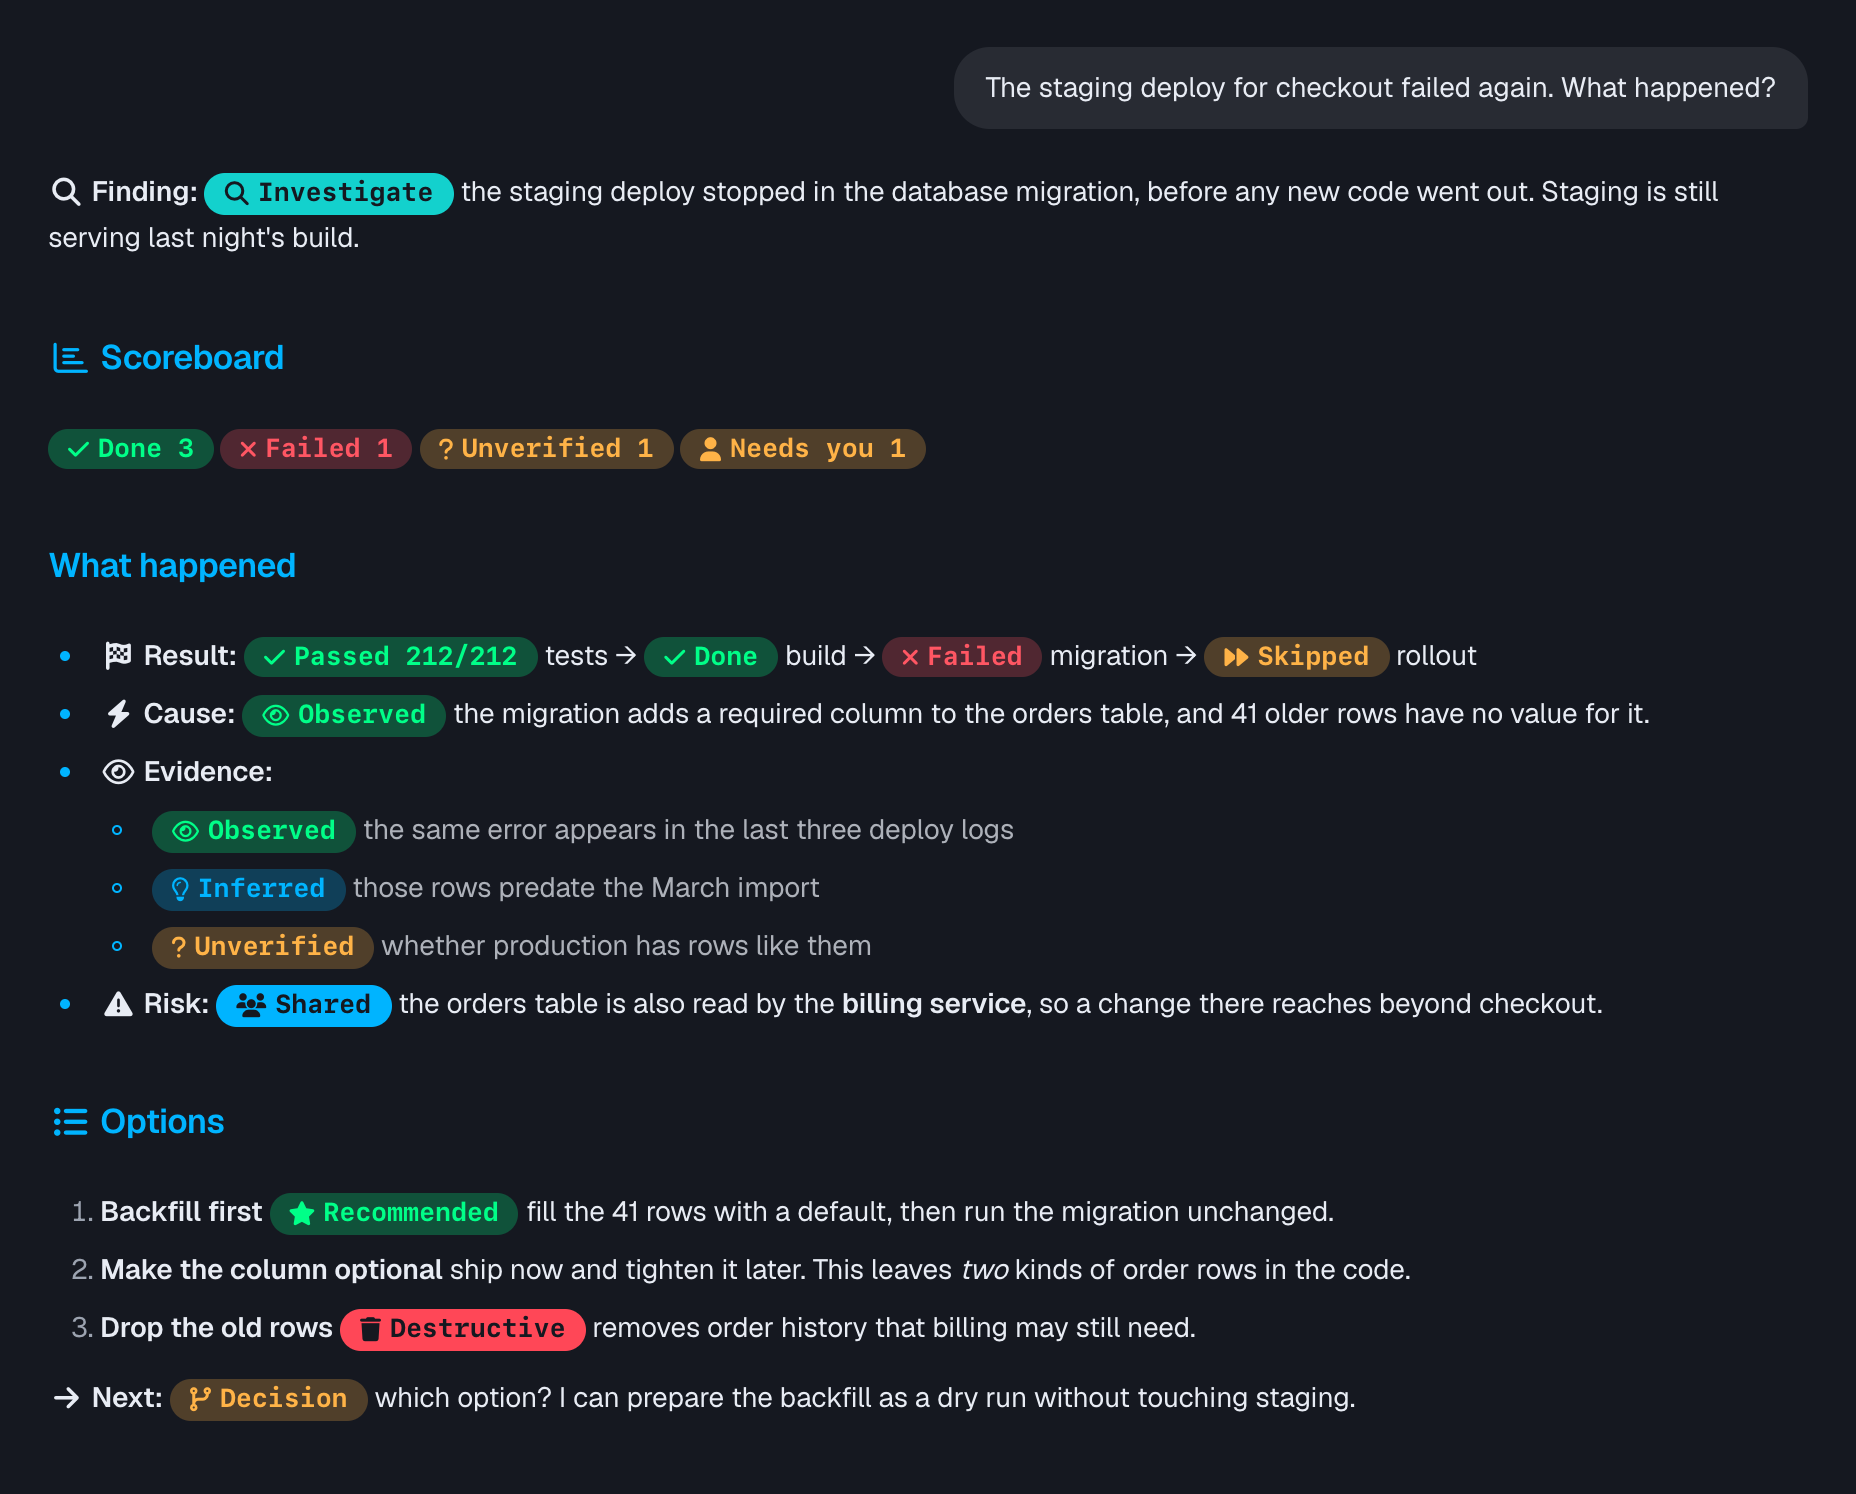
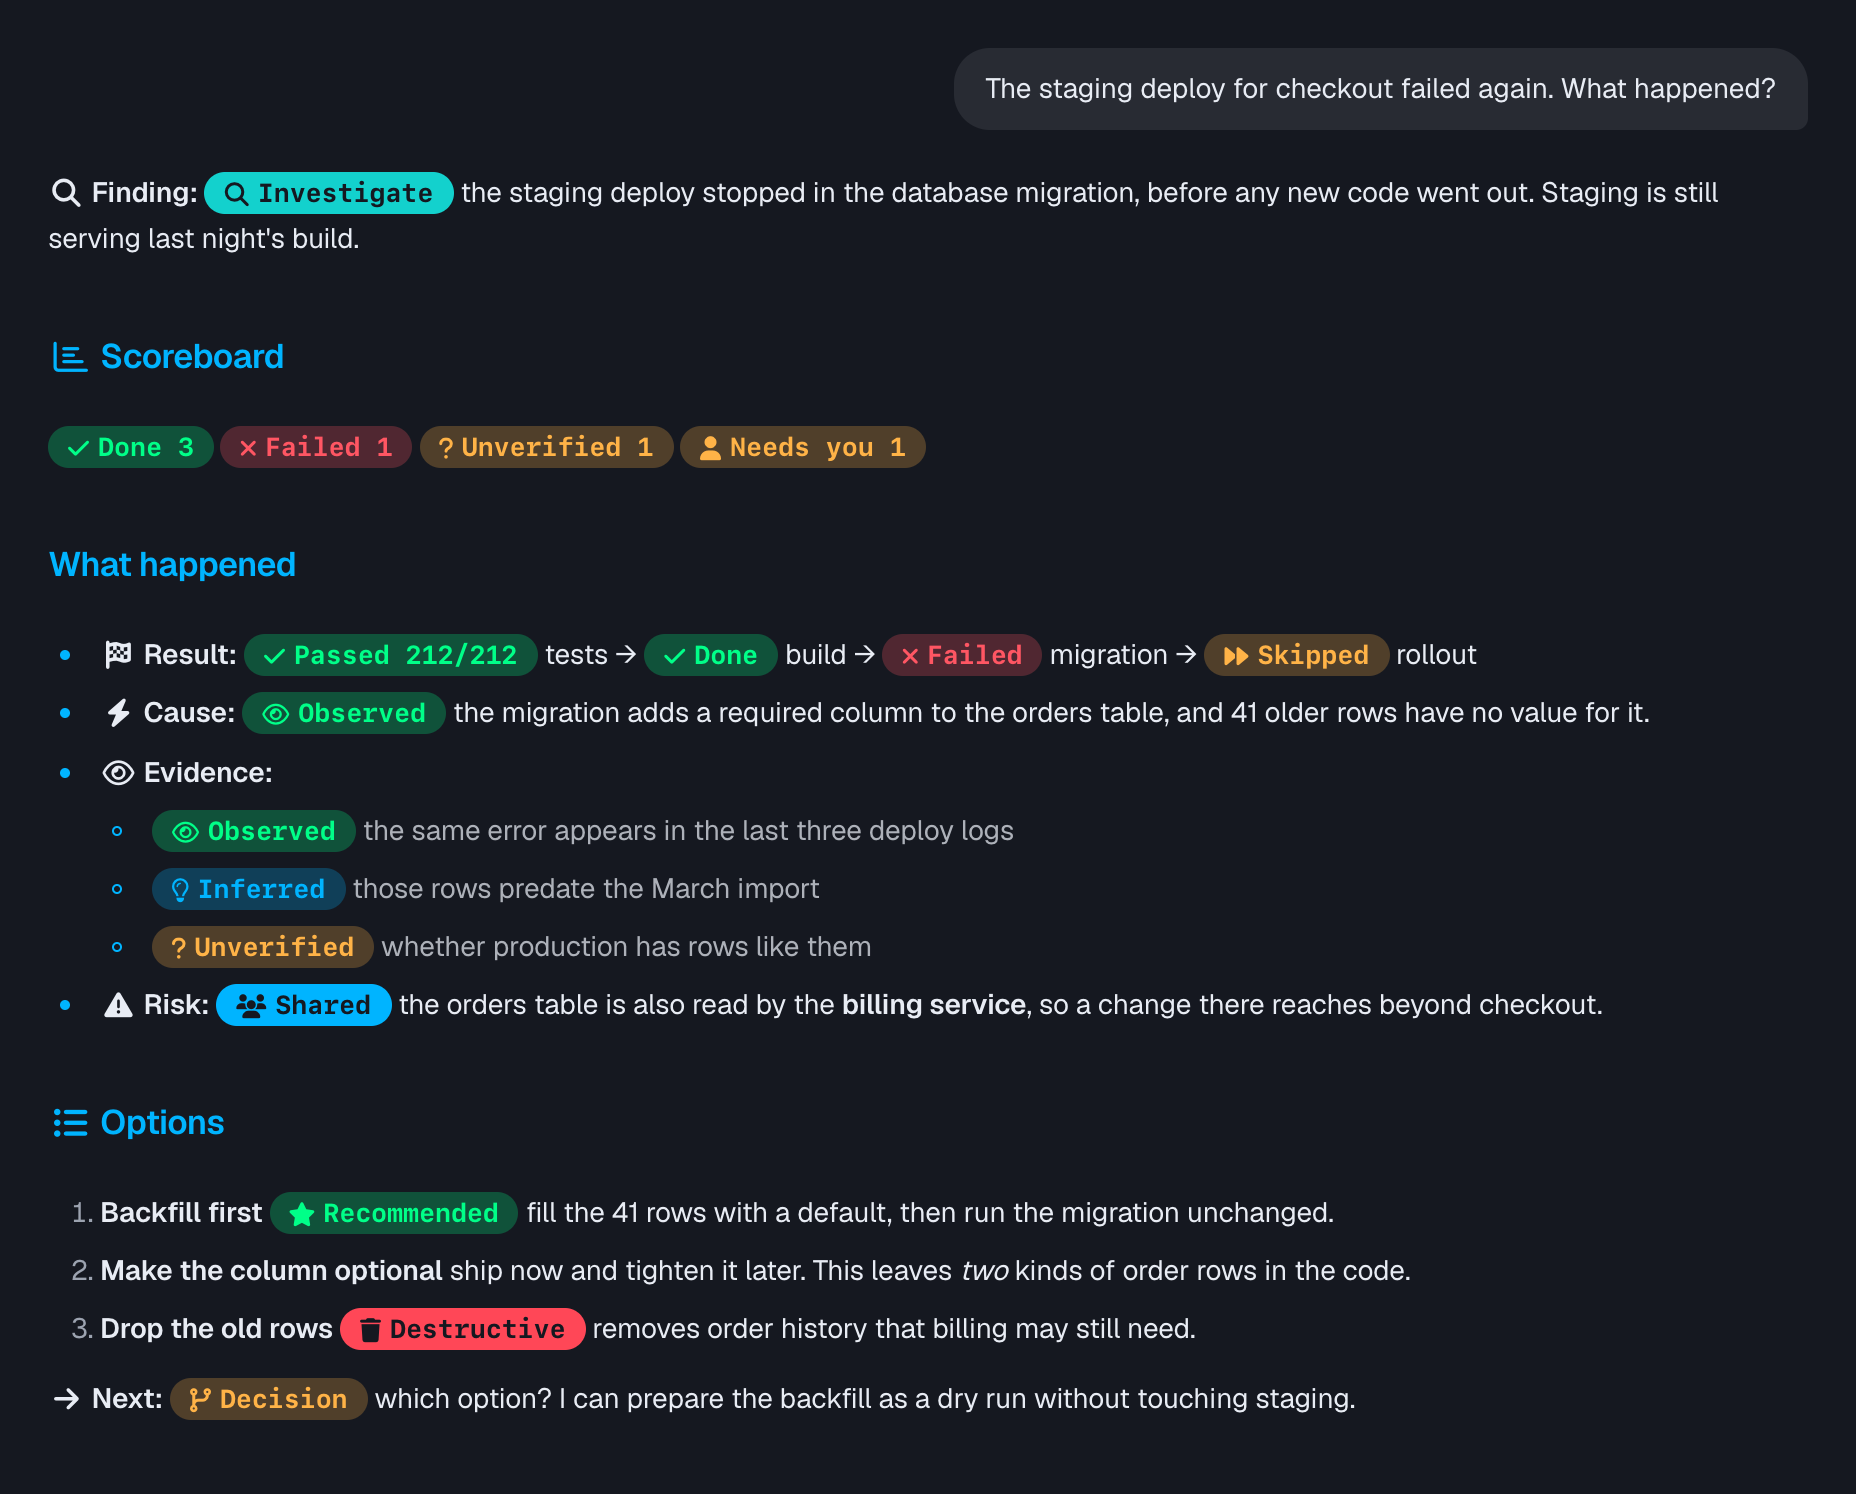
Center Tern pill labels vertically
- Labels sat 1 to 1.5px above the middle: the line box keeps room for descenders under the baseline.
- Padding is now 3px above and 1px below; the label stays on the prose baseline and line height is unchanged.
- Redraw the README Tern screenshots.

diff --git a/tern/pills.css b/tern/pills.css
@@ -16,7 +16,11 @@
 	/* Tern underlines Markdown links with an inset shadow that only an important rule replaces. */
 	box-shadow: none !important;
 	border-radius: 999px;
-	padding: 2px 10px;
+	/*
+	 * One pixel more above than below: the line box keeps room for descenders under the baseline,
+	 * so even padding leaves the capitals about a pixel above the middle.
+	 */
+	padding: 3px 10px 1px;
 	font-family: var(--tv-font, var(--mono));
 	font-size: 0.93em;
 	font-weight: 700;
